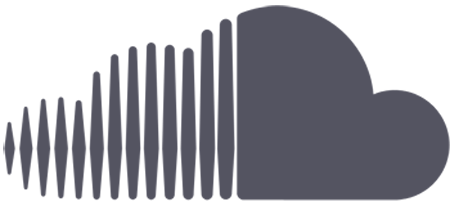
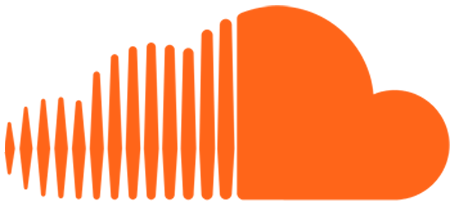
- Updated UI assets - Tweaked waveform content pane default view (also hooked up to mediacore events)

diff --git a/chrome/skin/directory.css b/chrome/skin/directory.css
@@ -1,0 +1,106 @@
+treecol[bind="http://songbirdnest.com/data/1.0#user"]
+{
+ text-align: left;
+}
+
+treecol[bind="http://songbirdnest.com/data/1.0#playcount"],
+treecol[bind="http://songbirdnest.com/data/1.0#favcount"]
+{
+ background-image: url("chrome://soundcloud/skin/elements.png");
+ background-repeat: no-repeat;
+ max-width: 45px;
+ min-width: 45px;
+ text-align: right;
+}
+
+treecol[bind="http://songbirdnest.com/data/1.0#playcount"]
+{
+ background-position: 105% 1px;
+}
+
+treecol[bind="http://songbirdnest.com/data/1.0#favcount"]
+{
+ background-position: 105% -43px;
+}
+
+treecol[bind="http://songbirdnest.com/data/1.0#user"] > label,
+.sb-playlist-tree > treechildren::-moz-tree-cell-text( http-songbirdnest-com-data-1-0-user )
+{
+  padding-right: 15px;
+}
+
+.header-actions {
+  -moz-box-align: center;
+  margin-right: 50px;
+}
+
+#soundcloud-logo {
+  cursor: pointer;
+  margin-left: 20px;
+  margin-top: 0px;
+}
+
+textbox.textbox-input {
+  font-family: "Lucida Grande", Arial !important;
+  font-size: 12px !important;
+}
+
+.adv-closed {
+  -moz-transform: rotate(180deg);
+}
+
+#soundcloud-search {
+  height: 60px;
+  background-image: url(chrome://soundcloud/skin/bg-header-soundcloud.png);
+}
+
+textbox {
+  background-color: #FFFFFF;
+  height: 25px;
+  border: 1px solid #EEEEEE;
+  -moz-border-radius-topleft: 5px;
+  -moz-border-radius-bottomleft: 5px;
+  -moz-border-radius-topright: 5px;
+  -moz-border-radius-bottomright: 5px;
+}
+
+#soundcloud-search-textbox {
+  background-color: #FFFFFF;
+  height: 25px;
+  border: 1px solid #EEEEEE;
+  -moz-border-radius-topleft: 5px;
+  -moz-border-radius-bottomleft: 5px;
+  -moz-border-radius-topright: 0px;
+  -moz-border-radius-bottomright: 0px;
+}
+
+#soundcloud-search-btn {
+  background-image: url(chrome://soundcloud/skin/bg-btn-search.png);
+  background-position: 0px -5px;
+  height: 25px;
+  margin: 0px -5px;
+  border: 1px solid #EEEEEE;
+  -moz-border-radius-topleft: 0px;
+  -moz-border-radius-topright: 5px;
+  -moz-border-radius-bottomleft: 0px;
+  -moz-border-radius-bottomright: 5px;
+}
+
+#soundcloud-search-btn:hover, #soundcloud-search-btn:focus {
+ background-position:0 -5px;
+ cursor:pointer;
+ color:#111;
+ outline: none;
+}
+
+#soundcloud-search-btn:active {
+ background-color: #bbb;
+ background-image:none;
+}
+
+#soundcloud-search-btn > .button-box > label.button-text {
+  color: #000000 !important;
+  font-family: "Lucida Grande", Arial;
+  font-size: 11px;
+  text-shadow: white 0px 1px 0px;
+}

diff --git a/chrome/content/waveform.html b/chrome/content/waveform.html
@@ -1,5 +1,4 @@
 <!DOCTYPE html PUBLIC "-//W3C//DTD XHTML 1.0 Strict//EN" "http://www.w3.org/TR/xhtml1/DTD/xhtml1-strict.dtd">
-<html xmlns="http://www.w3.org/1999/xhtml" xml:lang="en" lang="en">
 <head>
   <meta http-equiv="Content-Type" content="text/html; charset=utf-8" />
   <link type="text/css" rel="stylesheet" media="screen"
@@ -7,11 +6,18 @@
   <script type="text/javascript" src="soundcloudProperties.js"></script>
   <script type="text/javascript" src="waveform.js"></script>
 </head>
-
 <body id="socl-wf-body">
-  <div class="socl-idle">
+  <div id="socl-idle" style="min-width:750px; max-height: 500px;">
+    <!-- Don't forget about box-shadow and border-radius -->
+    <div id="socl-frame" style="position:absolute;top:15%;left:5%;background:#DAE8F6;padding:7px;margin: 0px auto 20px;display:block;-moz-border-radius-topleft:7px 7px;-moz-border-radius-topright:7px 7px;-moz-border-radius-bottomleft:7px 7px;-moz-border-radius-bottomright:7px 7px;">
+    <div id="socl-slogan" style="background-color:white;height:40px; width: 300px; border: 1px solid #B6CEE6; padding:10px; -moz-box-shadow:white 0px 0px 2px;text-align:center;">
+      <span style="font-family: 'Lucida Grande', Arial, Helvetica, Verdana, sans-serif; font-size: 25px; color: #06C;">
+        Visualize Your Sound      
+      </span>
+    </div>
+    </div>
   </div>
-  <div class="socl-wf-display" style="visibility: hidden;">
+  <div id="socl-wf-display" style="visibility: hidden;">
     <img id="waveform" src="chrome://soundcloud/skin/test_waveform.png" />
     <div id="wf-cursor" class="playhead" style="width: 0%; border-right: 1px solid rgb(255,85,0);" />
     <div class="seekhead" style="display: none;" >

diff --git a/chrome/content/waveform.js b/chrome/content/waveform.js
@@ -41,6 +41,9 @@ function SoundClouWaveform_onLoad() {
   this.remote_position.bindObserver(dataRemoteListener, true);
   this.remote_length = SBNewDataRemote("metadata.length", null);
   this.remote_length.bindObserver(dataRemoteListener, true);
+
+  this._idle = document.getElementById("socl-idle");
+  this._wfdisplay = document.getElementById("socl-wf-display");
 }
 
 SoundCloudWaveform.onPositionChanged =
@@ -59,8 +62,14 @@ function SoundCloudWaveform_onMediacoreEvent(aEvent) {
     case Ci.sbIMediacoreEvent.TRACK_CHANGE:
       this._currentItem = gMM.sequencer.currentItem;
       var img = this._currentItem.getProperty(SB_PROPERTY_WAVEFORM);
-      if (img != null)
+      if (img != null) {
+        this._idle.style.visibility = "hidden";
+        this._wfdisplay.style.visibility = "visible";
         this._waveform.src = img;
+      } else {
+        this._idle.style.visibility = "visible";
+        this._wfdisplay.style.visibility = "hidden";
+      }
       break;
     case Ci.sbIMediacoreEvent.SEQUENCE_CHANGE:
       dump("\nSEQUENCECHANGE\nposition: " + gMM.sequencer.viewPosition +

diff --git a/components/src/sbSoundCloud.js b/components/src/sbSoundCloud.js
@@ -316,7 +316,7 @@ function sbSoundCloud() {
     this._servicePaneNode.url = "chrome://soundcloud/content/directory.xul";
     this._servicePaneNode.id = "SB:RadioStations:SoundCloud";
     this._servicePaneNode.name = "SoundCloud";
-    this._servicePaneNode.image = 'chrome://soundcloud/skin/sc.png';
+    this._servicePaneNode.image = 'chrome://soundcloud/skin/favicon.png';
     this._servicePaneNode.editable = false;
     this._servicePaneNode.hidden = false;
     radioFolder.appendChild(this._servicePaneNode);
@@ -483,6 +483,7 @@ function sbSoundCloud_requestToken(success, failure) {
             Cu.reportError(response);
           }
         } else {
+          dump("\n" + response + "\n");
           OAUTH_TOKEN = response.split('&')[0].split('=')[1];
           TOKEN_SECRET = response.split('&')[1].split('=')[1];
 

diff --git a/chrome/content/main.js b/chrome/content/main.js
@@ -40,7 +40,7 @@ SoundCloud.URL_PASSWORD = 'https://soundcloud.com/login/forgot';
 SoundCloud.Icons = {
   busy: 'chrome://soundcloud/skin/busy.png',
   disabled: 'chrome://soundcloud/skin/disabled.png',
-  logged_in: 'chrome://soundcloud/skin/sc.png'
+  logged_in: 'chrome://soundcloud/skin/logged-in.png'
 };
 
 SoundCloud.onLoad = function SoundCloud_onLoad() {

diff --git a/chrome/skin/waveform.css b/chrome/skin/waveform.css
@@ -4,8 +4,9 @@ body#socl-wf-body {
   background-color: rgb(94, 92, 100);
 }
 
-.socl-idle {
+#socl-idle {
   padding-right: 50px;
+  background-color: rgb(244, 258, 252) !important;
   background-image: url('chrome://soundcloud/skin/big-cloud.png');
   background-position: 95% center;
   background-repeat: no-repeat;
